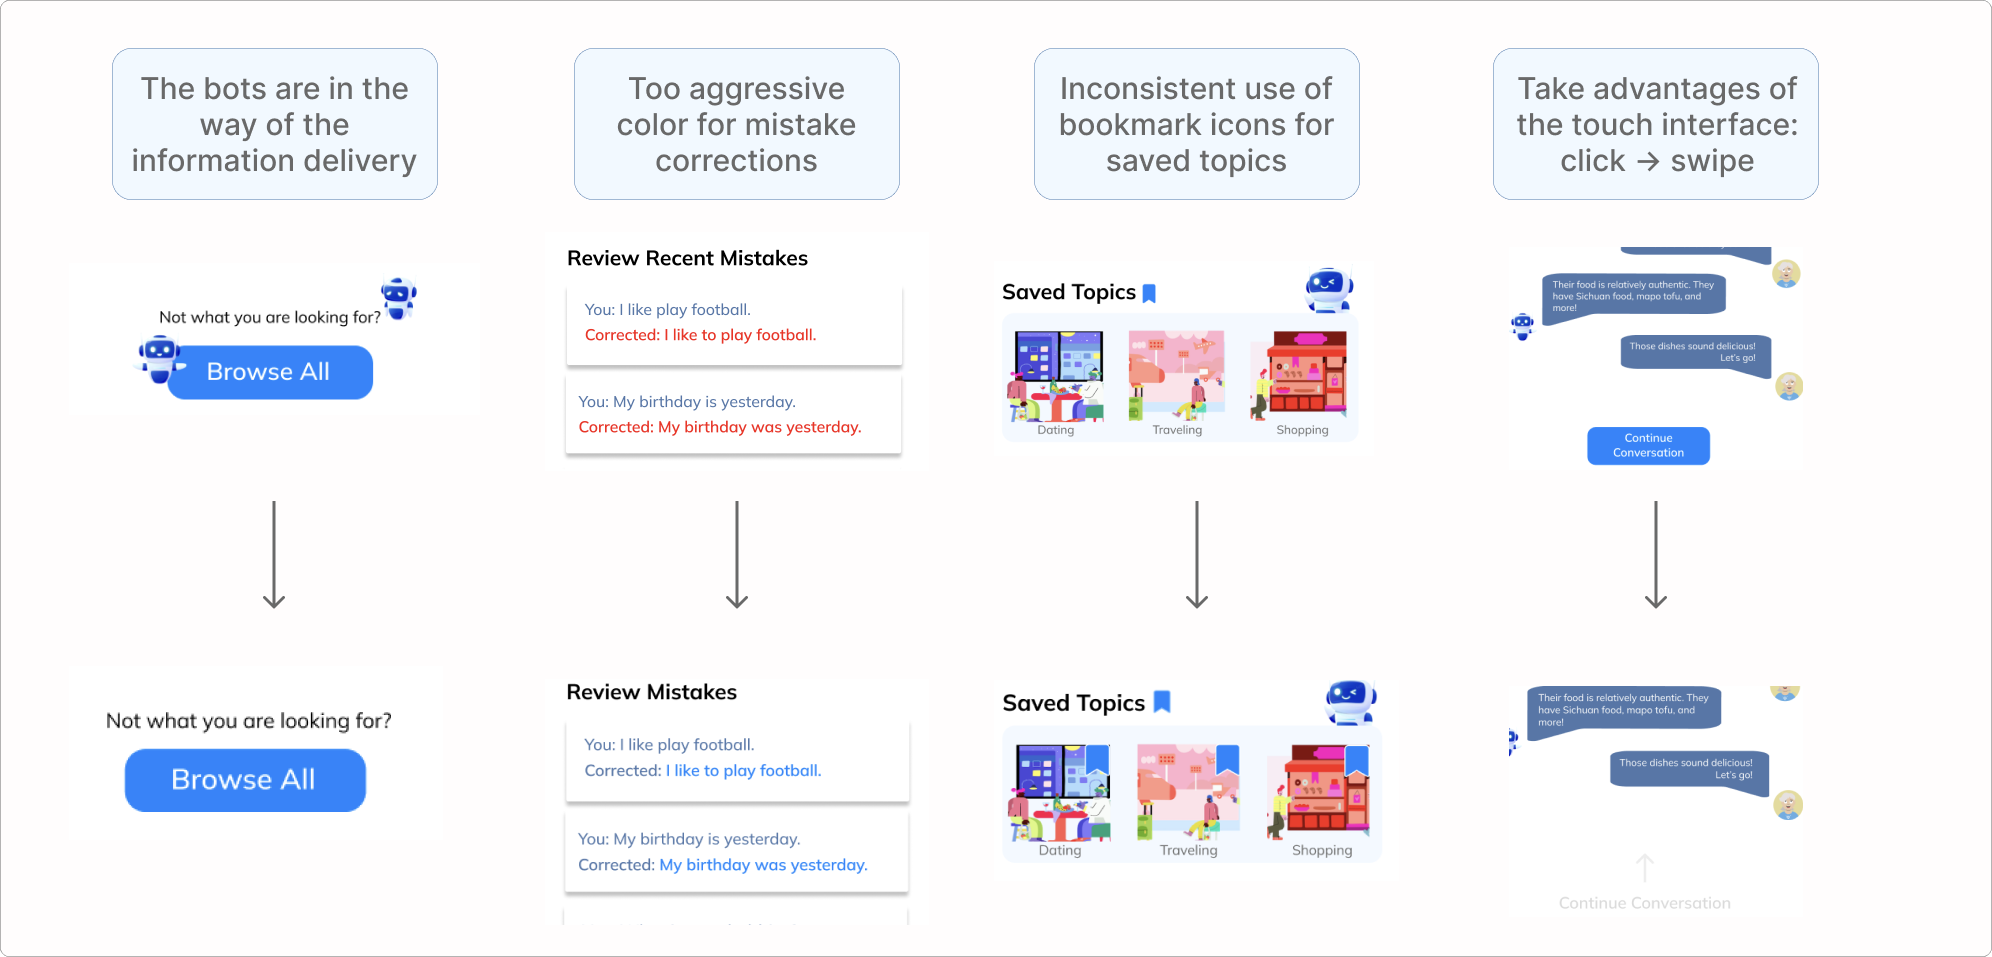
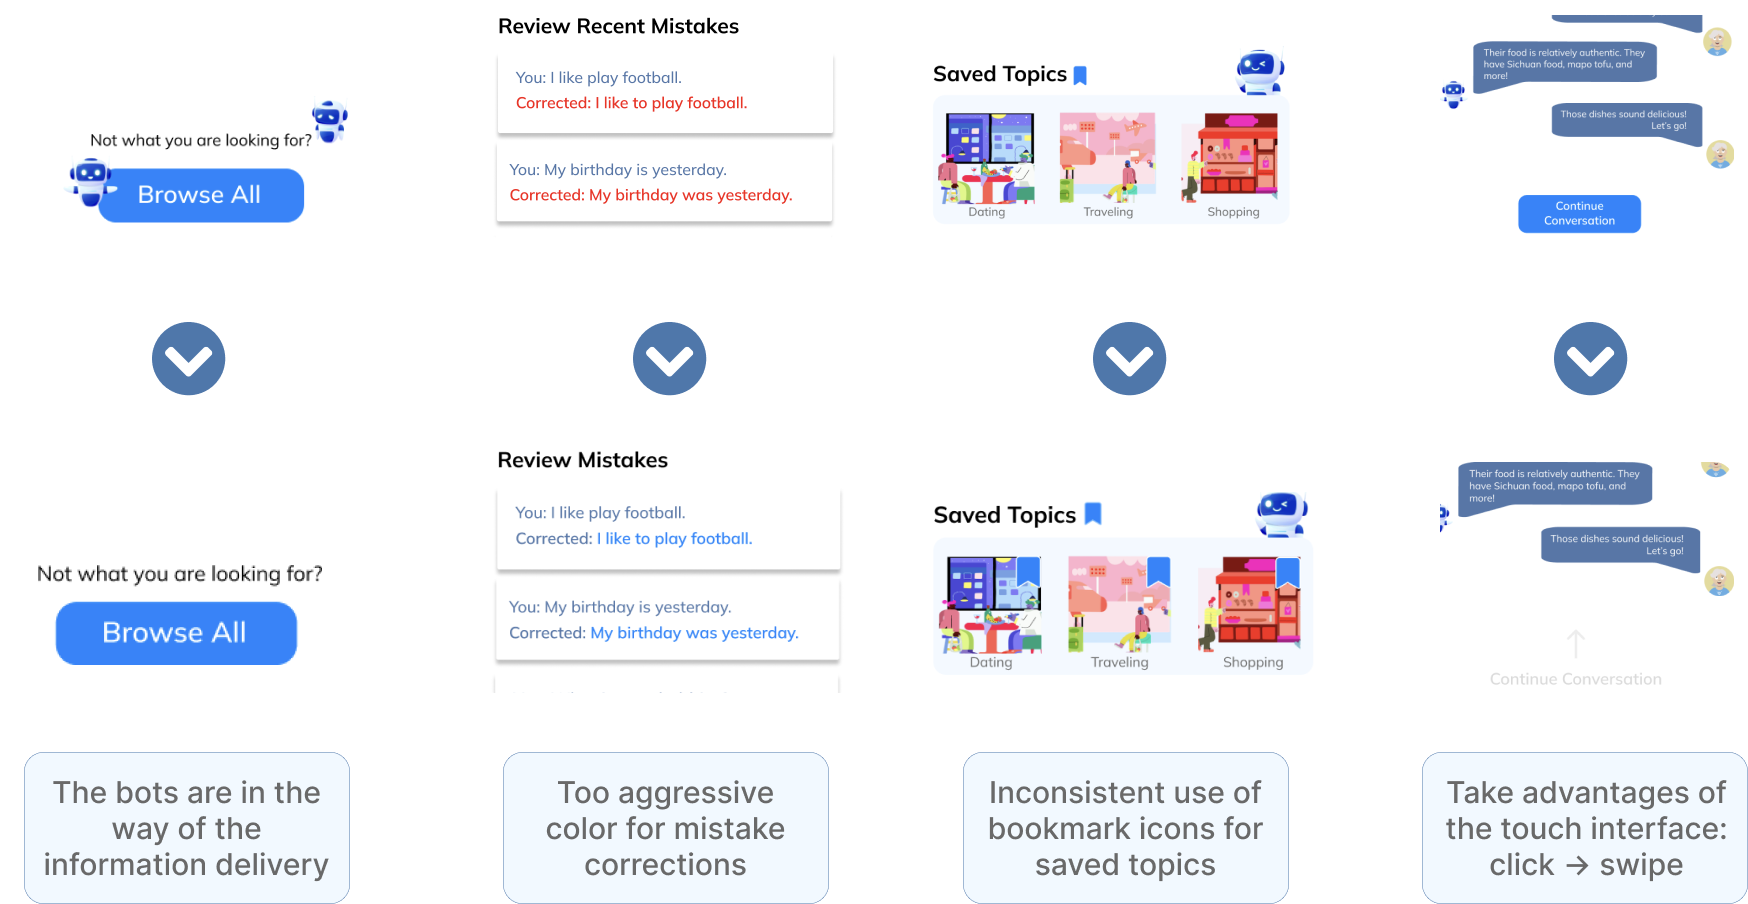
updated toko

diff --git a/toko.html b/toko.html
@@ -112,7 +112,7 @@
                     <div class="project-section-number mb-1">04</div>
                     <div class="project-section-title">Background: Recreate an app for a startup with their key technology</div>
                 </div>
-                <img src="assets/iterative/background_info.png" class="mx-auto d-block my-5 pt-5" width="80%">
+                <img src="assets/iterative/background_info.png" class="mx-auto d-block my-5 pt-5" width="70%">
             </div>
         </div>
 
@@ -151,7 +151,7 @@
                         </div>
                     </div>
                     <div class="col-md-9">
-                        <img src="assets/iterative/whyse.png" width="80%" class="d-block mx-auto">
+                        <img src="assets/iterative/whyse.png" width="60%" class="d-block mx-auto">
                     </div>
                 </div>
                 <div class="row py-5">
@@ -161,7 +161,7 @@
                         </div>
                     </div>
                     <div class="col-md-9 content">
-                        <img src="assets/iterative/se-how.png" width="80%" class="d-block mx-auto">
+                        <img src="assets/iterative/se-how.png" width="60%" class="d-block mx-auto">
                     </div>
                 </div>
                 <div class="content-heading mb-1">
@@ -206,7 +206,7 @@
                     </div>
                 </div>
                 <div class="col-md-9 content">
-                    <img src="assets/iterative/assess_but.png" width="80%" class="d-block mx-auto">
+                    <img src="assets/iterative/assess_but.png" width="60%" class="d-block mx-auto">
                 </div>
             </div>
             <div class="pt-5 content-heading mb-1">
@@ -216,6 +216,73 @@
                 Instead of having the Self Assessment survey, the AI can evaluate users' grammar, fluency and vocabulary level during chat.
             </div>
             <img class="py-5 d-block mx-auto" src="assets/iterative/assess_process.png" width="100%">
+            <div class="content py-5">
+                Potential algorithm for implementation
+            </div>
+            <img class="py-5 d-block mx-auto" src="assets/iterative/assess_code.png" width="100%">
+        </div>
+        <div class="bg-light">
+            <div class="container py-5" id="sketches">
+                <div>
+                    <div class="project-section-number mb-1">08</div>
+                    <div class="project-section-title">Sketches Based On Feature Ideation</div>
+                </div>
+                <img class="py-5 mx-auto d-block" src="assets/iterative/sketches.png" width="90%">
+            </div>
+        </div>
+
+        <div class="bg-white">
+            <div class="container py-5" id="appflow">
+                <div>
+                    <div class="project-section-number mb-1">09</div>
+                    <div class="project-section-title">The App Flow Map and Low Fidelity Prototype</div>
+                </div>
+                <img class="py-5 mx-auto d-block" src="assets/iterative/toko_map.png" width="80%">
+                <img class="py-5 mx-auto d-block" src="assets/iterative/lofi.png" width="80%">
+                <div class="content pb-3">
+                    My design decisions
+                </div>
+                <img class="pb-5 mx-auto d-block" src="assets/iterative/toko_lofi_me.png" width="80%">
+            </div>
+        </div>
+
+        <div class="bg-light">
+            <div class="container py-5" id="hifi">
+                <div>
+                    <div class="project-section-number mb-1">10</div>
+                    <div class="project-section-title">High Fidelity Prototype and First Round Critics</div>
+                </div>
+                <div class="content pt-4">Major Changes After the in-class Critique</div>
+                <img class="mx-auto d-block pt-3" src="assets/iterative/toko_critics.png" width="80%">
+                <button class="btn btn-outline-primary mt-5 " type="button" data-bs-toggle="collapse" data-bs-target="#full_critics" aria-expanded="false" aria-controls="full_critics">
+                    Full critics and hi-fi ▾
+                </button>
+
+                <div class="collapse" id="full_critics">
+                    <h5 class="mt-3">Critics Summary</h5>
+                    <ul>
+                        <li>Text across the app was too small. Specifically, “view all” buttons,
+                            “browse all”, topic names, and sign up instructions, which we made bigger. </li>
+                        <li>The login screen flows were confusing. We streamlined this into one
+                            sign up page and one login page.</li>
+                        <li>We had inconsistent use of bookmark icons for saved topics.
+                            We added bookmark icons to every topic to allow users to save topics.</li>
+                        <li>We had inconsistent titles for the “Continue Practicing” sections on the home and
+                            notebook pages. We made these sections’ titles the same to make it clear these
+                            were the same section.</li>
+                        <li>We used red text for mistake corrections, which was seen as too aggressive.
+                            We changed this to blue.</li>
+                        <li>Our prototype did not show that corrections were made in real time on the
+                            chat screen. We added grammatical corrections and a pop-up explanation.</li>
+                        <li>To better use the touch interface, we added a swipe up functionality to
+                            continue the conversation on the transcript screen.</li>
+                        <li>The profile page had no way to edit account details, so we added edit buttons.</li>
+                    </ul>
+                    <h5 class="py-3">Final High-Fidelity Prototype</h5>
+                    <img src="assets/iterative/hifi.png" width="100%">
+                    <a class="pb-3" href="https://www.figma.com/proto/pvSaC5YstmYMQkLkj8fzi1/toko?node-id=212%3A770&scaling=scale-down&page-id=212%3A475&starting-point-node-id=212%3A770&show-proto-sidebar=1">Link to play with the prototype in Figma</a>
+                </div>
+            </div>
         </div>
 
 
